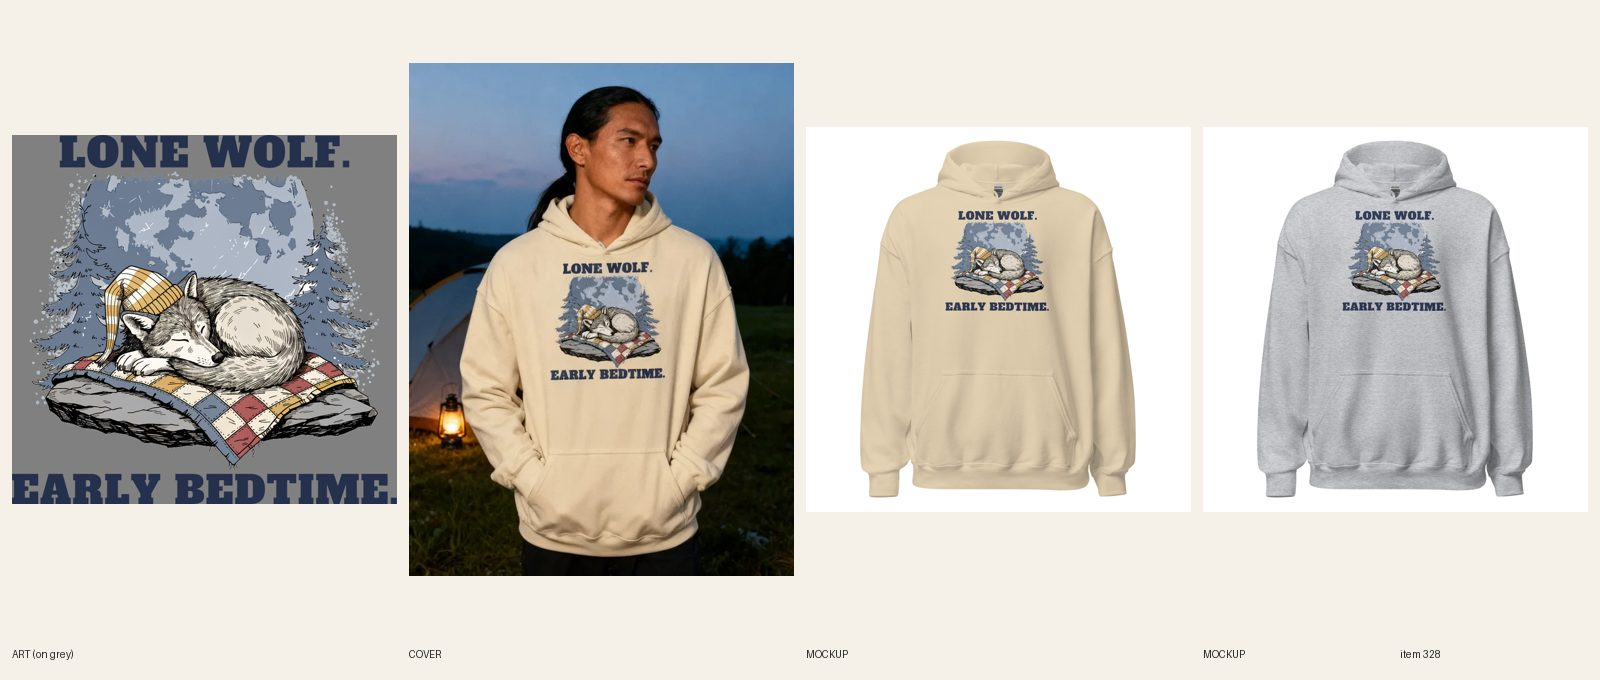
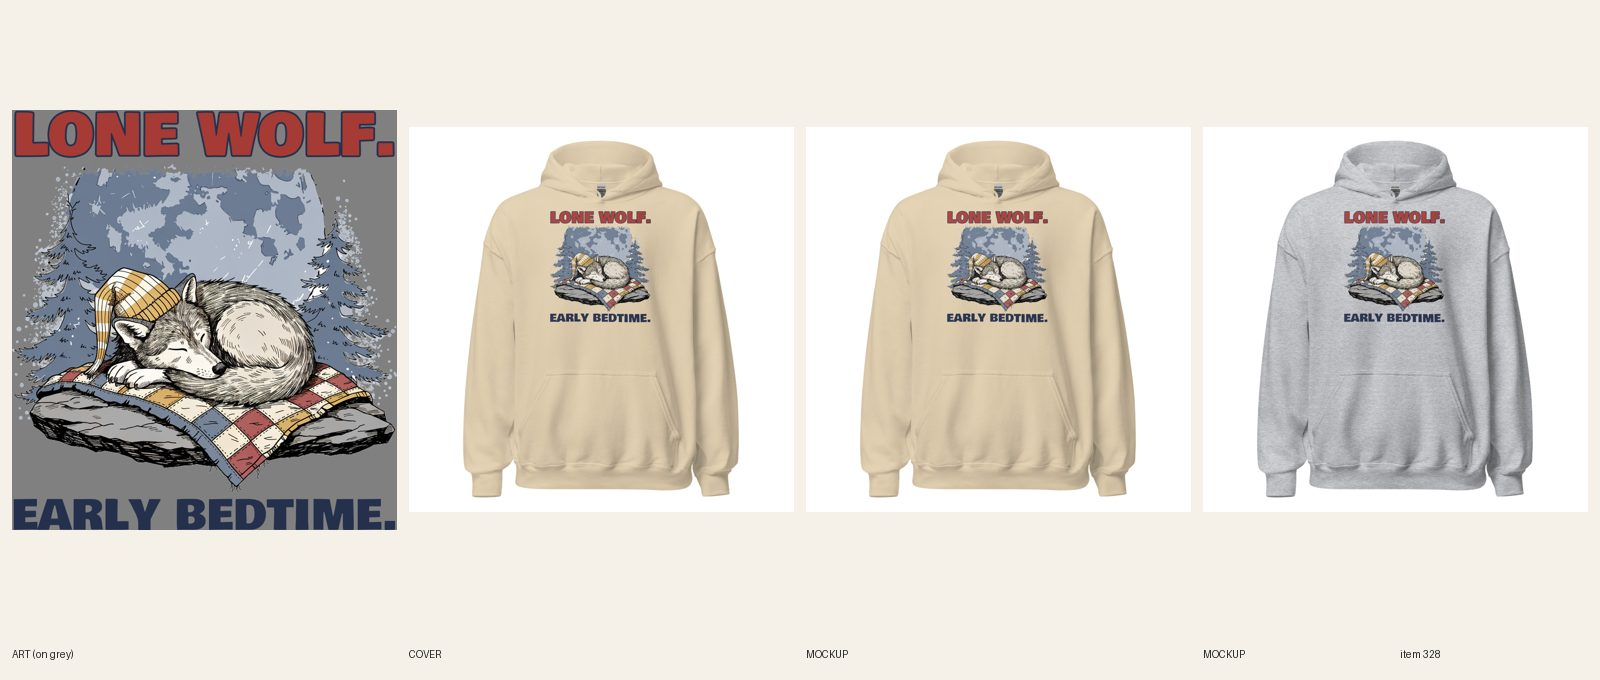
[B] review 328 Men's Wolf Lone Wolf hoodie (type redo)
Claude-Session: https://claude.ai/code/session_01Dph1dR4zsD4LmRYP3tVqoj

Changed region(s): [[0.0, 0.0926, 0.5, 0.8647], [0.8438, 0.3088, 0.9062, 0.4941], [0.5938, 0.3088, 0.6562, 0.4941]]

diff --git a/docs/intake-log.md b/docs/intake-log.md
@@ -1,5 +1,5 @@
-RUNNING lane B since 2026-10-19 15:00 UTC
 2026-10-19 15:05 UTC — [A] Builder run: quality reset still PAUSED; all 5 sample REDOs (#577 #624 #245 #275 #273) are at REVIEW, no lane A gift add-on briefs, covers on hold. Nothing built; no lock taken.
+2026-10-19 15:09 UTC — [B] Builder run: RESUMED; redid #328 Lone Wolf hoodie (type only: heavy full-width BowlbyOne lockup, same art, FW 1465, 12/12 synced, mockups replaced in place, plain product shot). REVIEW. fal $0. 1 redo per run cap reached. Lock released.
 2026-10-19 14:57 UTC — [C] Builder run: quality reset still PAUSED; all lane C gift add-on briefs (#677-#683, #687-#689, #692, #693) already at REVIEW; remaining lane C items are regular, not allowed; covers on hold. Nothing built; no lock taken.
 2026-10-19 14:49 UTC — [H] Helper run: Telegram inbox empty (getUpdates returned 0 updates; nothing to consume). Audit (597 live products): 12 ERRORs fixed by removing wrong collection tags in Shopify (7 hoodies out of bookish-sweatshirts, grandpa-sweatshirts, drummer-shirts, hockey-shirts, pickleball-shirts; 4 crewnecks out of hanukkah-sweaters, hockey-shirts, pickleball-shirts; 1 tee out of grandpa-sweatshirts); re-audit now 0 errors, 30 warnings left alone (polish). Announcement bar already the sale line (Base.astro), so no change. Category check: 0 products without a category. Site freshness: womens-nana-mom-said-no-thats-cute-crewneck-sweatshirt, mens-welder-i-basically-hot-glue-metal-graphic-tee, mens-running-i-only-run-downhill-graphic-tee all 200. Stuck check: 0 items BUILDING, no lane lock. Daily summary not due (sent 12:43). Lock released.
 2026-10-19 14:45 UTC — [E] Builder run: quality reset still PAUSED; no lane E gift add-on briefs; remaining lane E READY items are regular, not allowed; covers on hold. Nothing built; no lock taken.

diff --git a/docs/pipeline/328-wolf-hoodie-lone-wolf-early-bedtime.md b/docs/pipeline/328-wolf-hoodie-lone-wolf-early-bedtime.md
@@ -1,4 +1,4 @@
-status: REDO
+status: REVIEW
 lane: B
 type: new
 id: 328
@@ -29,3 +29,4 @@ kd: 26
 - 2026-10-17 21:20 UTC builder [B]: synced 12/12. REVIEW. Sheet docs/review/328.jpg. Wolf print width FW 1500.
 - 2026-10-17 20:16 UTC director: APPROVED, LIVE. ACTIVE + published Online Store, Headless, Google; cohesion-audit --handle PASS.
 - 2026-10-18 17:22 UTC director: QUALITY RESET grade B (type only), REDO. The product stays ACTIVE (same handle, URL, title keyword). Keep the line "LONE WOLF. / EARLY BEDTIME." and the art. 1. Type: Headline only ~75% width and smaller than second line; navy lacks art color. 2. Quality reset type bar (docs/backlog/quality-reset.md, 'The new bar'): headline at least 90% of the art width, heavy, colors pulled from the art; second line at least 45% of the headline's height, never a thin script on a dark or mid garment; use the lettering as a shape (arch, stacked lockup, words breaking into the art), not a plain bar above and a script line below; no font used on more than 1 in 6 of the last 30 designs. 3. New print file means a new cover per R6.10 and a fresh review sheet (R7.7). While quality-reset.md says PAUSED, only lane A builds, and only the samples step 2 names.
+- 2026-10-19 15:09 UTC builder [B]: REDO type-only done. New print (designs/b/wolf2.json, same art, BowlbyOne headline LONE WOLF. brick red #a63a35 with navy keyline at full art width, EARLY BEDTIME. navy same width, red/navy pulled from the quilt and art), Printful file 1089605307, FW 1465 TOP 0, resynced 12/12. Front mockups Sand and Sport Grey replaced in place (back unchanged). Cover: plain product shot (handle added to retired-covers.json, R-resume terms, no new cover). Phone-size read: both lines readable. Light file n/a (no cream headline). fal $0. Audit PASS. Sheet docs/review/328.jpg. Set REVIEW.
